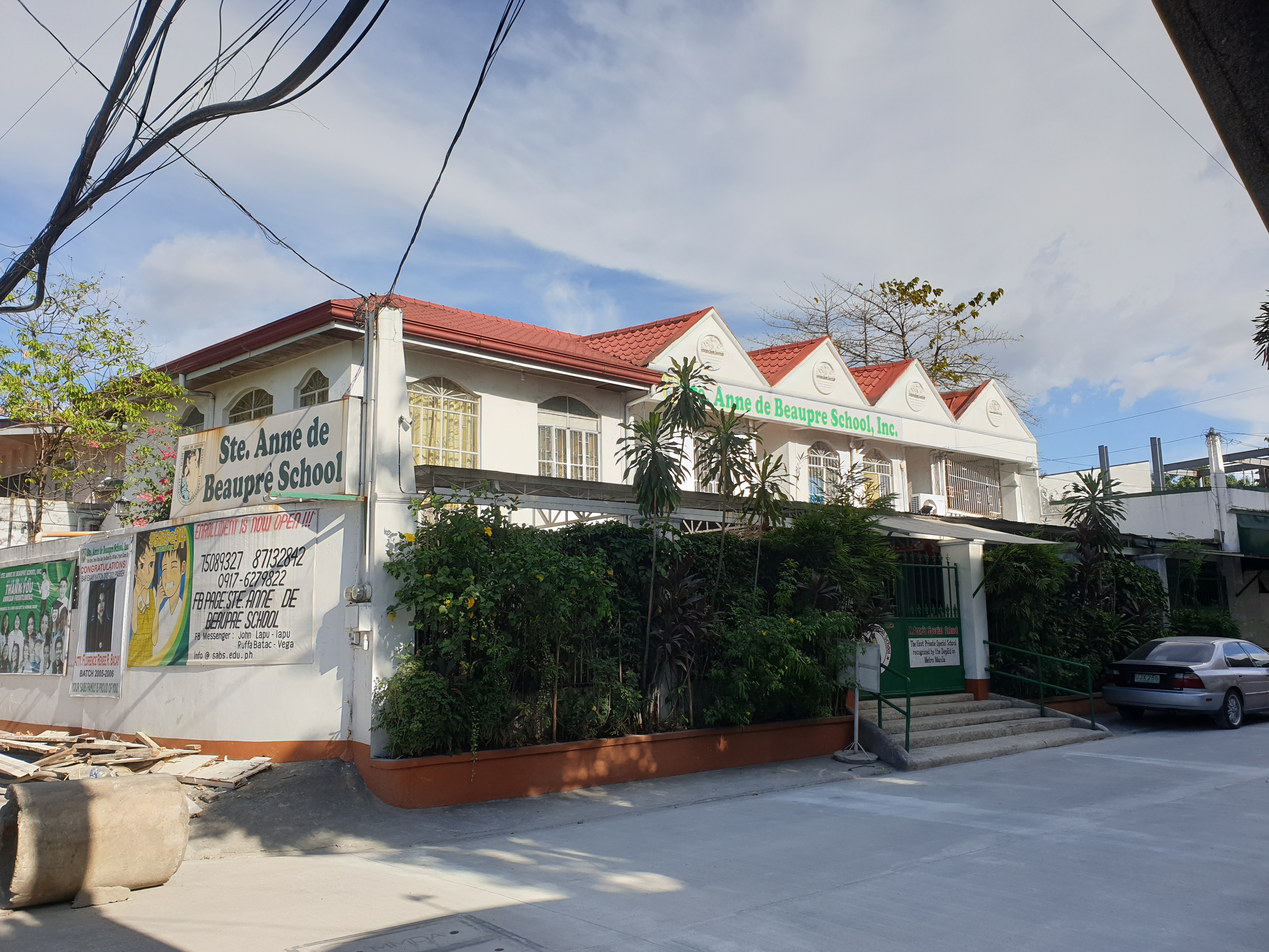
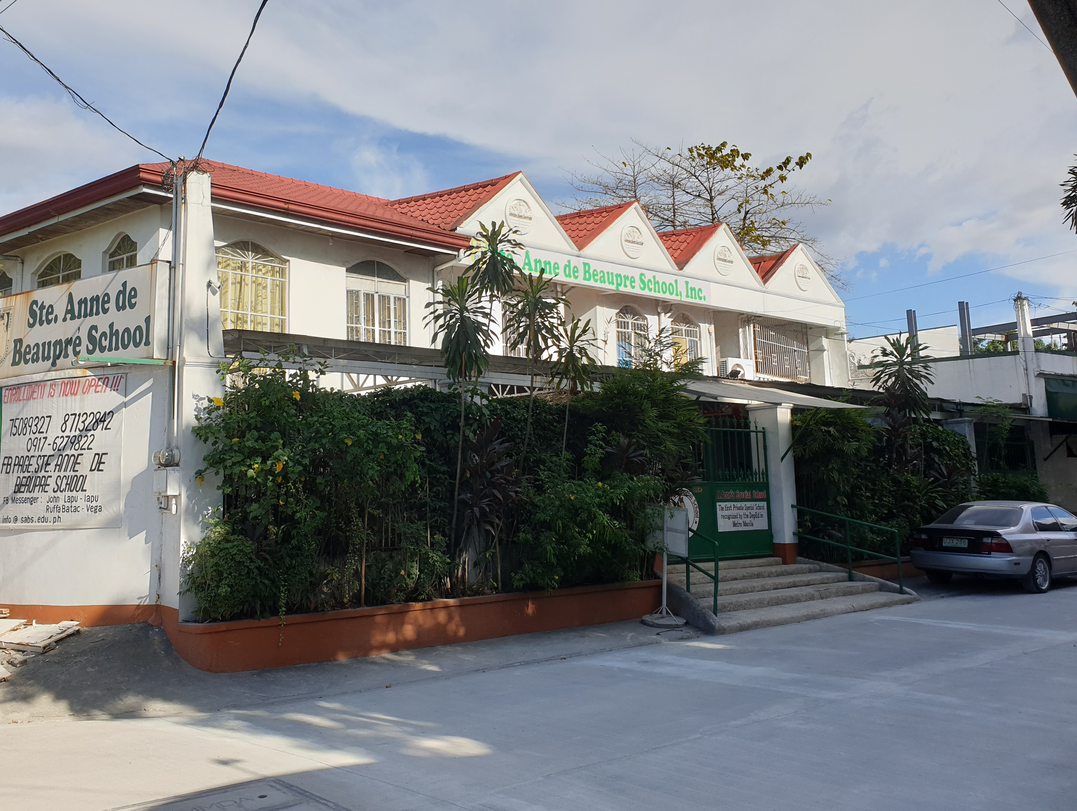
Patched v2.1

diff --git a/index.css b/index.css
@@ -12,7 +12,7 @@
 .header {
   min-height: 100vh;
   width: 100%;
-  background-image: url("pictures/sabs.png");
+  background-image: url("pictures/sabs2.png");
   background-position: center;
   background-size: cover;
   position: relative;
@@ -115,6 +115,8 @@ nav a:hover::after {
   transform: translate(-50%, -50%);
   text-align: center;
   margin-top: 50px;
+  align-items: flex-start;
+  flex-direction: column;
 }
 
 .text-box h1 {
@@ -122,7 +124,7 @@ nav a:hover::after {
   color: white;
   font-weight: normal;
   text-align: left;
-  font-size: 40px;
+  font-size: 50px;
   margin: 8px 8px 8px 8px;
 }
 
@@ -337,7 +339,7 @@ h3 {
 }
 
 footer {
-  position: scroll;
+  position: relative;
   background-color: #3c6255;
   color: #fff;
   padding: 10px 20px;
@@ -359,6 +361,7 @@ body {
   flex-direction: column;
 }
 
+
 .layer {
   padding: 10px;
 }
@@ -379,22 +382,24 @@ nav .fa {
     font-family: system-ui, -apple-system, BlinkMacSystemFont, "Segoe UI",
       Roboto, Oxygen, Ubuntu, Cantarell, "Open Sans", "Helvetica Neue",
       sans-serif;
-    display: flex;
-    flex-wrap: wrap;
-    justify-content: center;
+    /* display: flex; */
+    /* flex-wrap: nowrap; */
+    /* justify-content: center; */
     position: absolute;
     top: 50%;
     left: 50%;
     transform: translate(-50%, -50%);
     text-align: center;
     margin-top: 50px;
+    align-items: center;
+    flex-direction: column;
   }
 
   .text-box h1 {
     font-family: "Cooper Black", Roboto;
-    font-size: 36px;
+    font-size: 50px;
     text-align: center;
-    margin-top: 50px;
+    margin-top: 4;
     padding: 7px;
     font-weight: 600;
   }
@@ -406,10 +411,6 @@ nav .fa {
     text-align: center;
     color: #ffffff;
     position: relative;
-  }
-  .hero-btn {
-    text-align: center;
-    margin-left: 60px;
   }
 }
 
@@ -445,7 +446,7 @@ nav .fa {
 
   .text-box h1 {
     font-family: "Cooper Black", Roboto;
-    font-size: 36px;
+    font-size: 40px;
     margin-top: 50px;
     padding: 7px;
     font-weight: 600;
@@ -561,4 +562,67 @@ nav .fa {
 .popup-content img {
   max-width: 40%;
   padding: 0px 0px 3px 0px;
+}
+
+.floating-button {
+  position: fixed;
+  font-size: 10px;
+  bottom: 20px;
+  right: 20px;
+  width: 50px;
+  height: 50px;
+  border-radius: 50%;
+  background-color: #61876E;
+  color: white;
+  text-align: center;
+  font-size: 30px;
+  cursor: pointer;
+  transition: 0.4s;
+  border-style: solid;
+  border-color: #A6BB8D;
+  user-select: none;
+}
+
+.floating-button img{
+  width: 30px;
+  position: absolute;
+  display: flex;
+  justify-content: center;
+  align-content: flex-start;
+  flex-direction: column;
+  margin: 10px 1px 1px 10px;
+}
+
+.floating-window {
+  width: 220px;
+  height: 450px;
+  border-radius: 20px;
+  background-color: #61876E;
+  border-color: #A6BB8D;
+  box-shadow: 3px 3px 10px rgba(0, 0, 0, 0.582);
+  user-select: none;
+}
+.floating-window img{
+  display: none;
+}
+
+@keyframes fadeIn {
+  from { opacity: 0; }
+  to { opacity: 1; }
+}
+
+.floating-button-content {
+  animation: fadeIn 1.5s;
+  font-size: 12px;
+}
+
+.floating-button h1{
+  margin: 10px;
+}
+
+.floating-button-content p{
+  margin-bottom: 30px;
+}
+.floating-button-content h1{
+  margin-top: 25px;
 }

diff --git a/index.html b/index.html
@@ -39,14 +39,12 @@
             <p>Welcome to the fork of the official Website of Ste. Anne de Beaupre School. <br>This
                 website is designed to look more modern and user-friendly, with new features made specifically for
                 students.<br>
-                Access the Gallery now!
             </p>
             <a href="https://neonfelixe.github.io/SABS-Website-Revamp.github.io/Gallery.html" target="_blank"
                 class="hero-btn">Gallery
             </a>
         </div>
     </section>
-
 
     <section class="course">
         <h1>STRANDS We Offer</h1>
@@ -115,7 +113,6 @@
         </div>
     </section>
 
-
     <footer>
         <div class="bottom-bar" id="contact-info">
             <p>Contact us: nf.cruz@sabs.edu.ph, neonfelixe@gmail.com (Under Development)</p>
@@ -123,6 +120,34 @@
         </div>
     </footer>
 
+    <div class="floating-button" onclick="toggleWindow()">
+        <img src="icons/vision.png" alt="vision">
+    </div>
+    <div class="floating-window">
+        <img src="icons/vision.png" alt="vision">
+    </div>
+
+    <script>
+        const floatingButton = document.querySelector('.floating-button');
+        floatingButton.addEventListener('click', () => {
+            floatingButton.classList.toggle('floating-window');
+            if (floatingButton.classList.contains('floating-window')) {
+                floatingButton.innerHTML += `
+      <section class="floating-button-content">
+        <h1>Vision</h1>
+        <p>Ste. Anne de Beaupré School envisions a world of proactive Filipino leaders that make the
+             world a better place both in the eyes of God and man.</p
+      </section>
+      <section class="floating-button-content">
+        <h1>Mission</h1>
+        <p>Ste. Anne de Beaupré School provides a well-balanced educational program for the formation of individuals with 
+        moral virtues, high-level intelligence and functional skills.</p
+      </section>`;
+            } else {
+                floatingButton.innerHTML = '<img src="icons/vision.png" alt="vision">';
+            }
+        });
+    </script>
 
     <script>
         if (window.innerWidth < 1080) {
